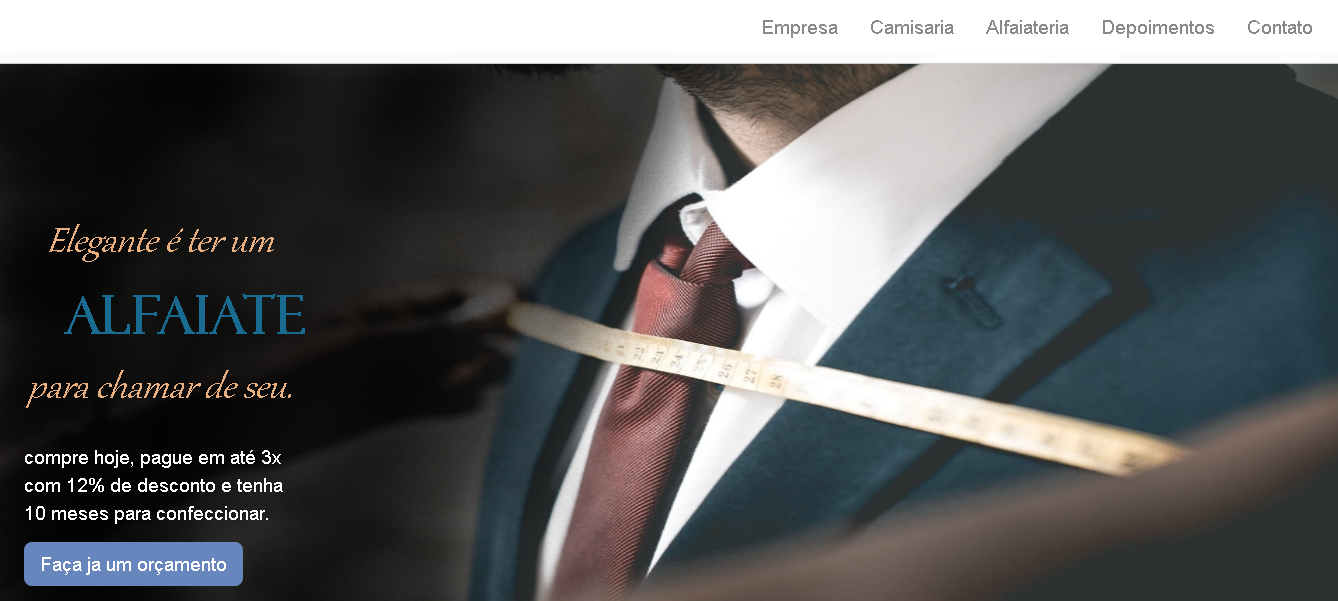
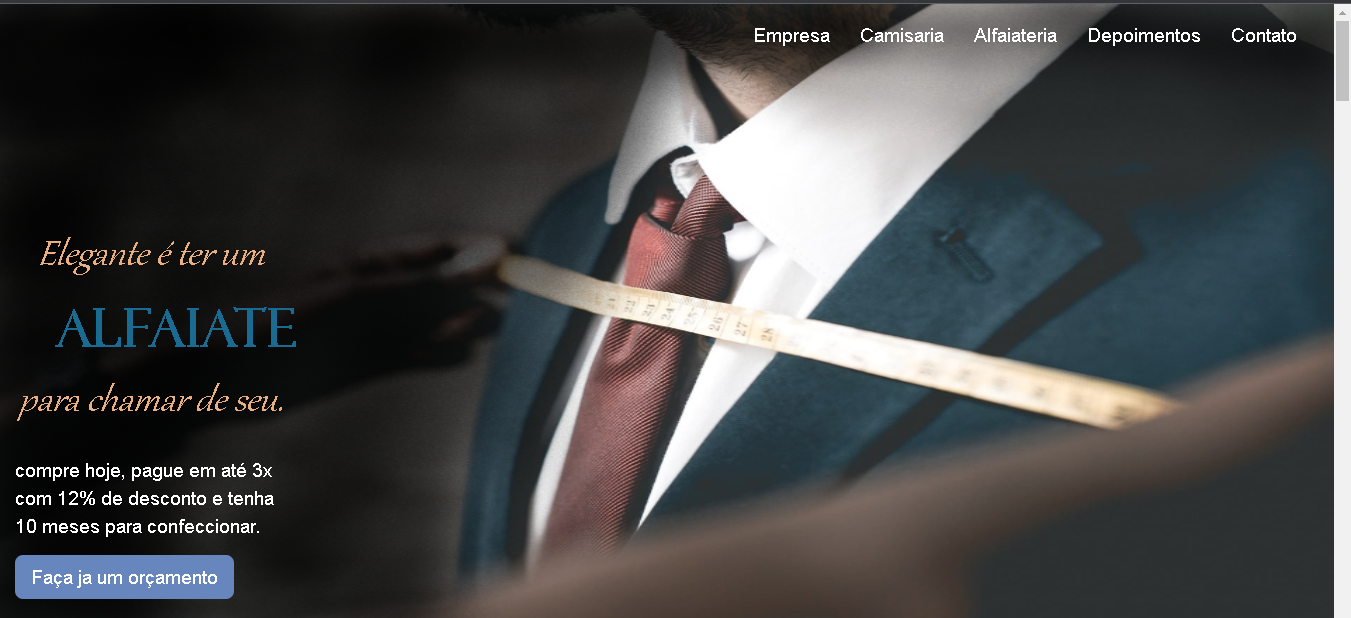
Created effects in the menu;

diff --git a/src/App.vue b/src/App.vue
@@ -1,24 +1,42 @@
 <template>
 <div id="app">
 
-<div class="w3-bar w3-top w3-border" id="menu">
-  <div class="w3-right">
-      <a class="w3-bar-item w3-button w3-hover-white w3-hover-text-teal" @click="empresa">Empresa</a>
-      <a class="w3-bar-item w3-button w3-hover-white w3-hover-text-teal" @click="camisaria">Camisaria</a>
-      <a class="w3-bar-item w3-button w3-hover-white w3-hover-text-teal" @click="alfaiateria">Alfaiateria</a>
-      <a class="w3-bar-item w3-button w3-hover-white w3-hover-text-teal" @click="depoimentos">Depoimentos</a>
-      <a class="w3-bar-item w3-button w3-hover-white w3-hover-text-teal" @click="contato">Contato</a>
-    </div>
-  </div>
+<b-row id="menu" class="w-100" align-h="end">
+  <b-col cols="auto" align-self="center">
+    <ul class="mt-1 d-flex">
+      <li>
+        <a @click="empresa">Empresa</a>
+      </li>
 
-<empresa class="empresa" />
-<sobre class="sobre" />
-<opiniao class="opiniao" />
-<qualidades class="qualidades" />
-<condicoes class="condicoes" />
-<camisaria  class="camisaria"/>
-<depoimentos  class="depoimentos"/>
-<contatos  class="contatos"/>
+      <li>
+        <a @click="camisaria">Camisaria</a>
+      </li>
+
+      <li>
+        <a @click="alfaiateria">Alfaiateria</a>
+      </li>
+
+      <li>
+        <a @click="depoimentos">Depoimentos</a>
+      </li>
+
+      <li>
+        <a @click="contato">Contato</a>
+      </li>
+    </ul>
+  </b-col>
+</b-row>
+
+<div class="content-page">
+  <empresa class="empresa" />
+  <sobre class="sobre" />
+  <opiniao class="opiniao" />
+  <qualidades class="qualidades" />
+  <condicoes class="condicoes" />
+  <camisaria  class="camisaria"/>
+  <depoimentos  class="depoimentos"/>
+  <contatos  class="contatos"/>
+</div>
 
 
 <footer>
@@ -30,6 +48,11 @@
 </template>
 
 <script>
+
+window.addEventListener("scroll", () => {
+  let header = document.getElementById("menu")
+  header.classList.toggle("sticky", window.scrollY > 150)
+})
 
 import empresa from './components/empresa'
 import sobre from './components/sobre'
@@ -54,37 +77,36 @@ export default {
     camisaria
   },
 
-  methods:{
-
-    empresa: function () {
+  methods: {
+    empresa(){
       scrollToElement('.sobre', {
         offset: 0,
         duration: 2500
     })
   },
 
-    camisaria: function () {
+    camisaria(){
       scrollToElement('.camisaria', {
         offset: 0,
         duration: 2500
     })
   },
 
-    alfaiateria: function () {
+    alfaiateria(){
       scrollToElement('.camisaria', {
         offset: 0,
         duration: 2500
     })
   },
 
-    depoimentos: function () {
+    depoimentos(){
       scrollToElement('.depoimentos', {
         offset: 0,
         duration: 2500
     })
   },
 
-    contato: function () {
+    contato(){
       scrollToElement('.contatos', {
         offset: 0,
         duration: 2500
@@ -102,15 +124,35 @@ export default {
   -moz-osx-font-smoothing: grayscale;
   text-align: center;
   color: #2c3e50;
-  margin-top: 60px;
 }
 
 #menu {
   padding: 1%;
-  background-color: rgba(255, 255, 255, 0.979);
-  color: #8a8a8a;
+  color: #ffffff;
   font-size: 14pt;
+  position: fixed;
+  transition: 1s;
+  top: 0;
+  left: 0;
+  width: 101% !important;
+  z-index: 99;
 }
+
+.sticky {
+  background-color: rgb(255, 255, 255) !important;
+  color: #1d1d1d9f !important;
+  box-shadow: 1px 1px 10px rgba(0, 0, 0, 0.199);
+}
+
+#menu ul li {
+  list-style: none;
+}
+
+#menu ul li a {
+  margin: 0 15px;
+  cursor: pointer;
+}
+
 
 @media screen and (max-width: 650px) {
 #app {
